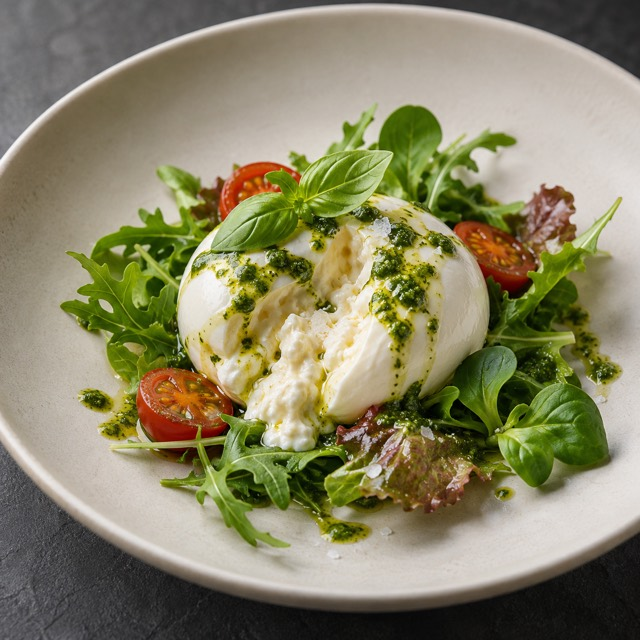
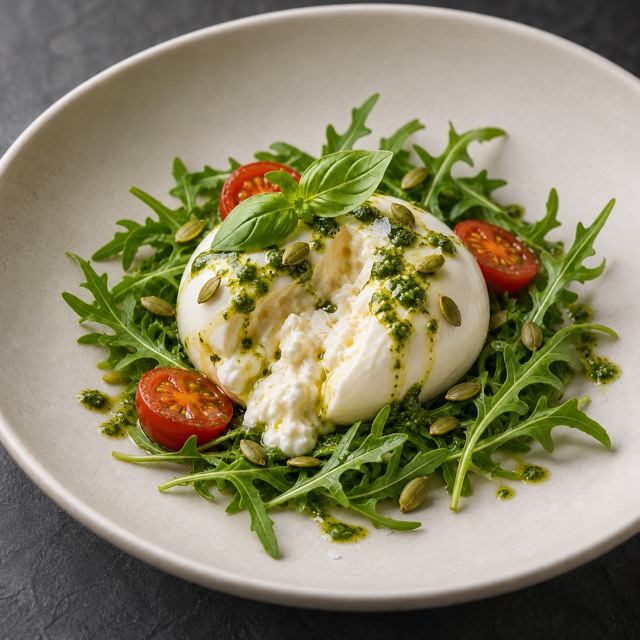
Fiestas: burrata with rúcula and pipas de calabaza; no truffle slices on canelones and lasaña photos

Changed region(s): [[0.0938, 0.125, 1.0, 0.9062], [0.5, 0.3438, 0.5312, 0.375]]

diff --git a/fiestas/menus.js b/fiestas/menus.js
@@ -56,7 +56,7 @@ window.FIESTAS = {
       ] },
       menu: {
         primero: [
-          { key: 'burr26', es: 'Ensalada de burrata con tomates cherry, brotes tiernos y salsa de albahaca' },
+          { key: 'burr26', es: 'Ensalada de burrata con tomates cherry, rúcula, pipas de calabaza y salsa de albahaca' },
           { key: 'cane26', es: 'Canelones XXL de carne con bechamel trufada y parmesano gratinado', tags: ['firma'] },
           { key: 'escu26', es: "Escudella i carn d'olla tradicional de Sant Esteve" },
           { key: 'zamb26', es: 'Zamburiñas gratinadas con gambas, mejillones y gulas' }
